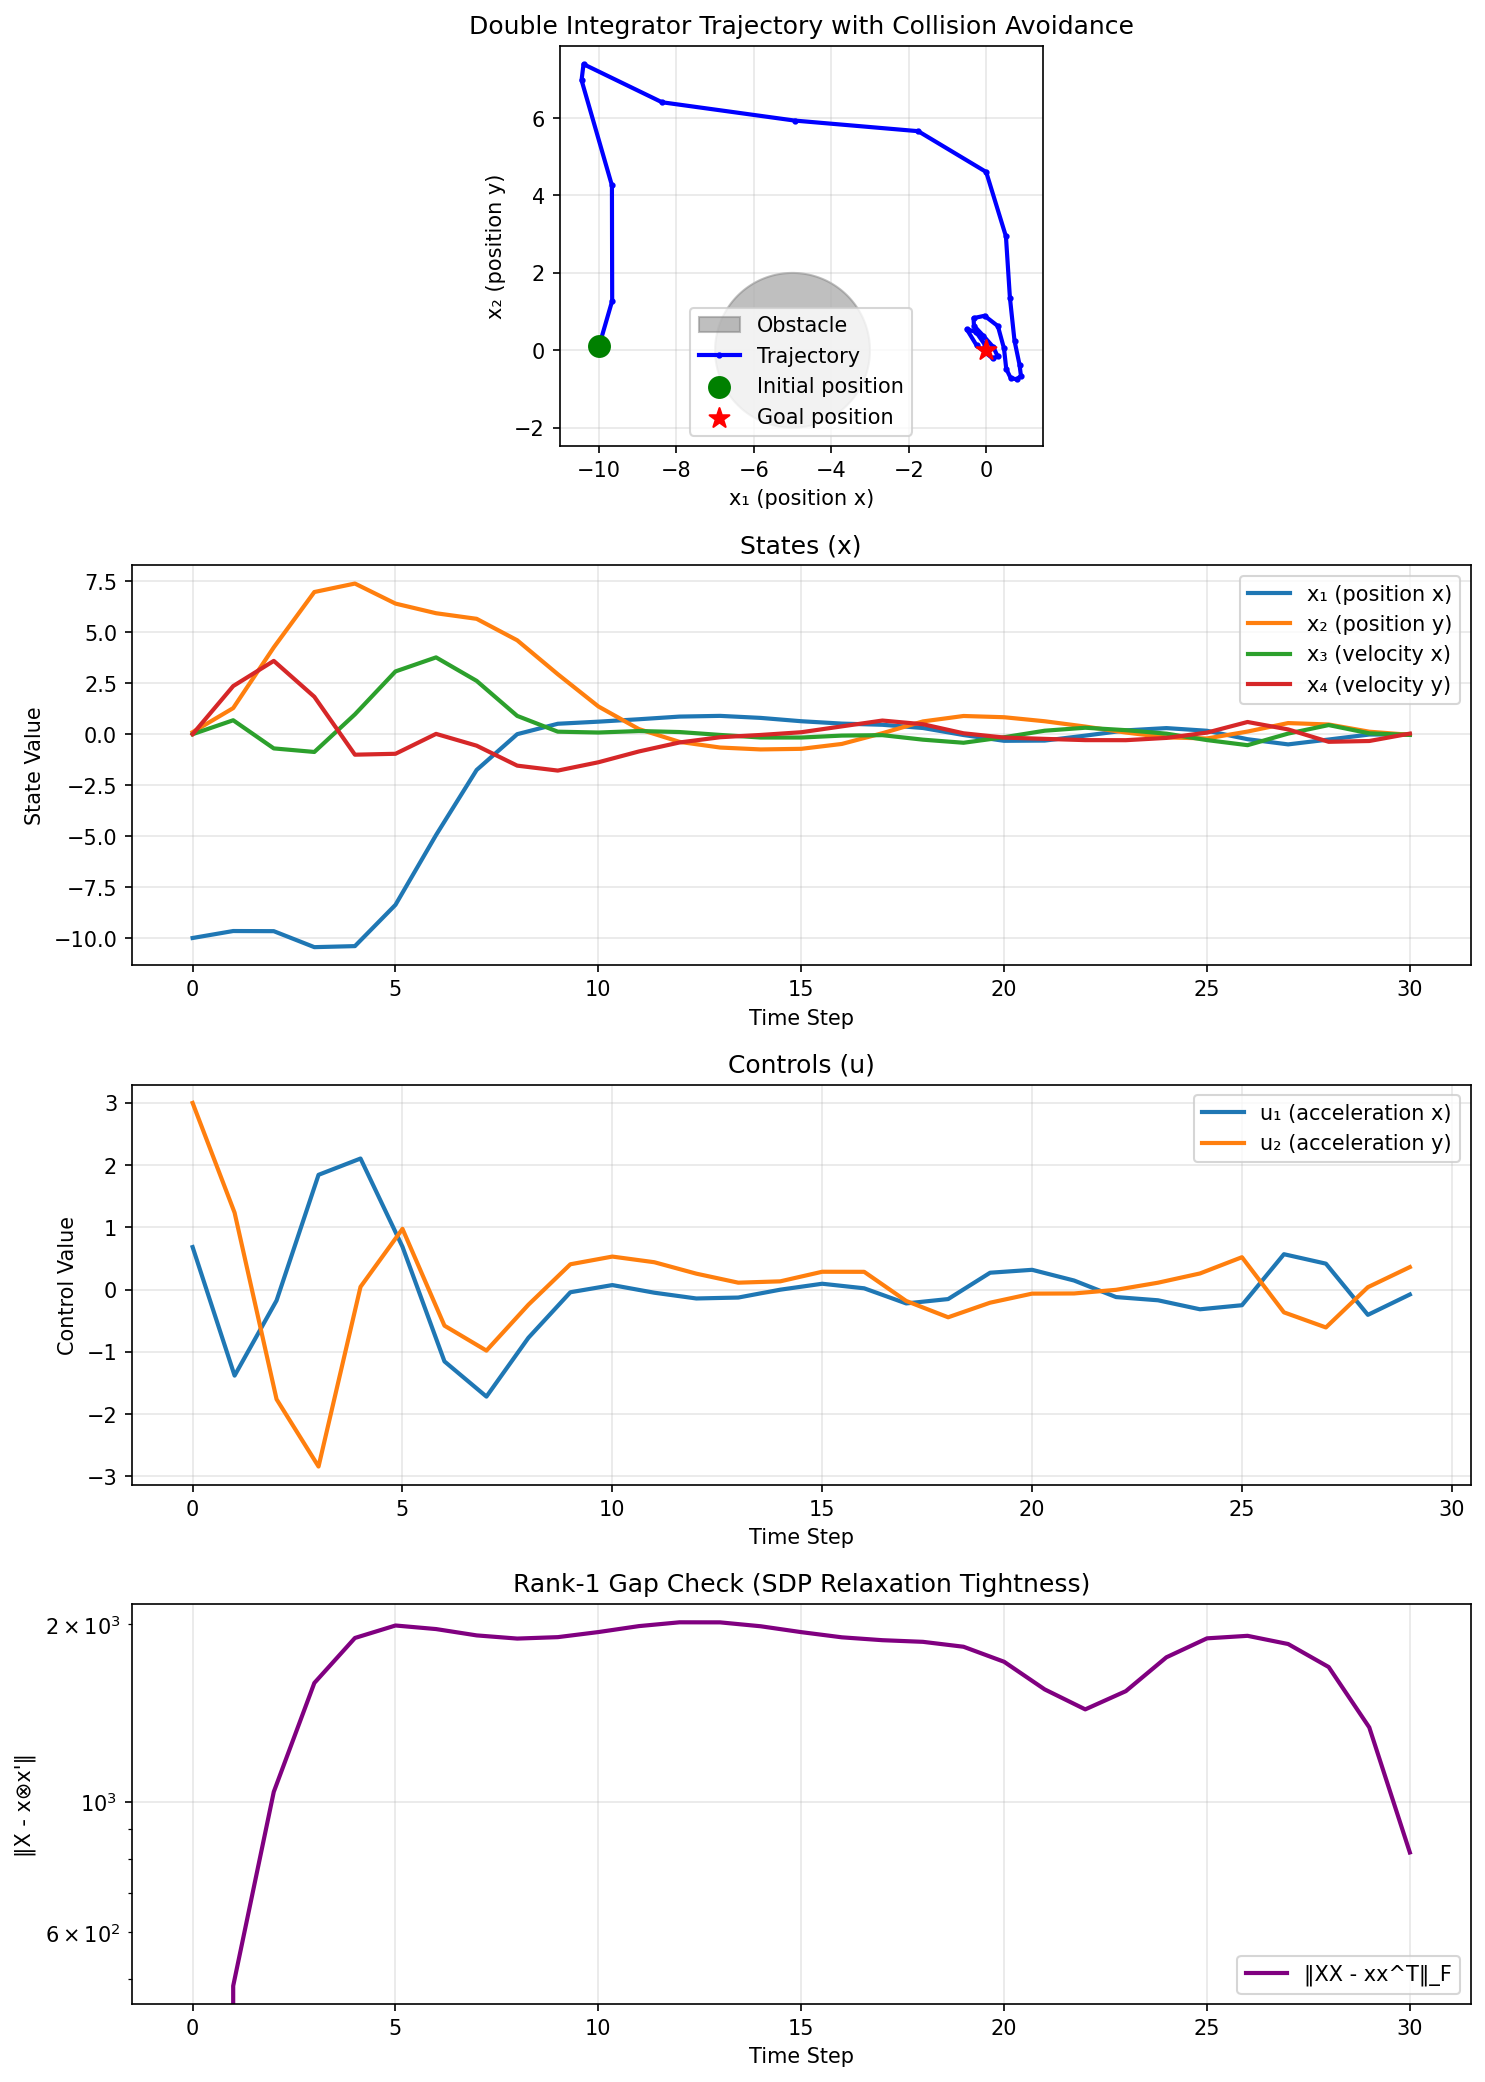
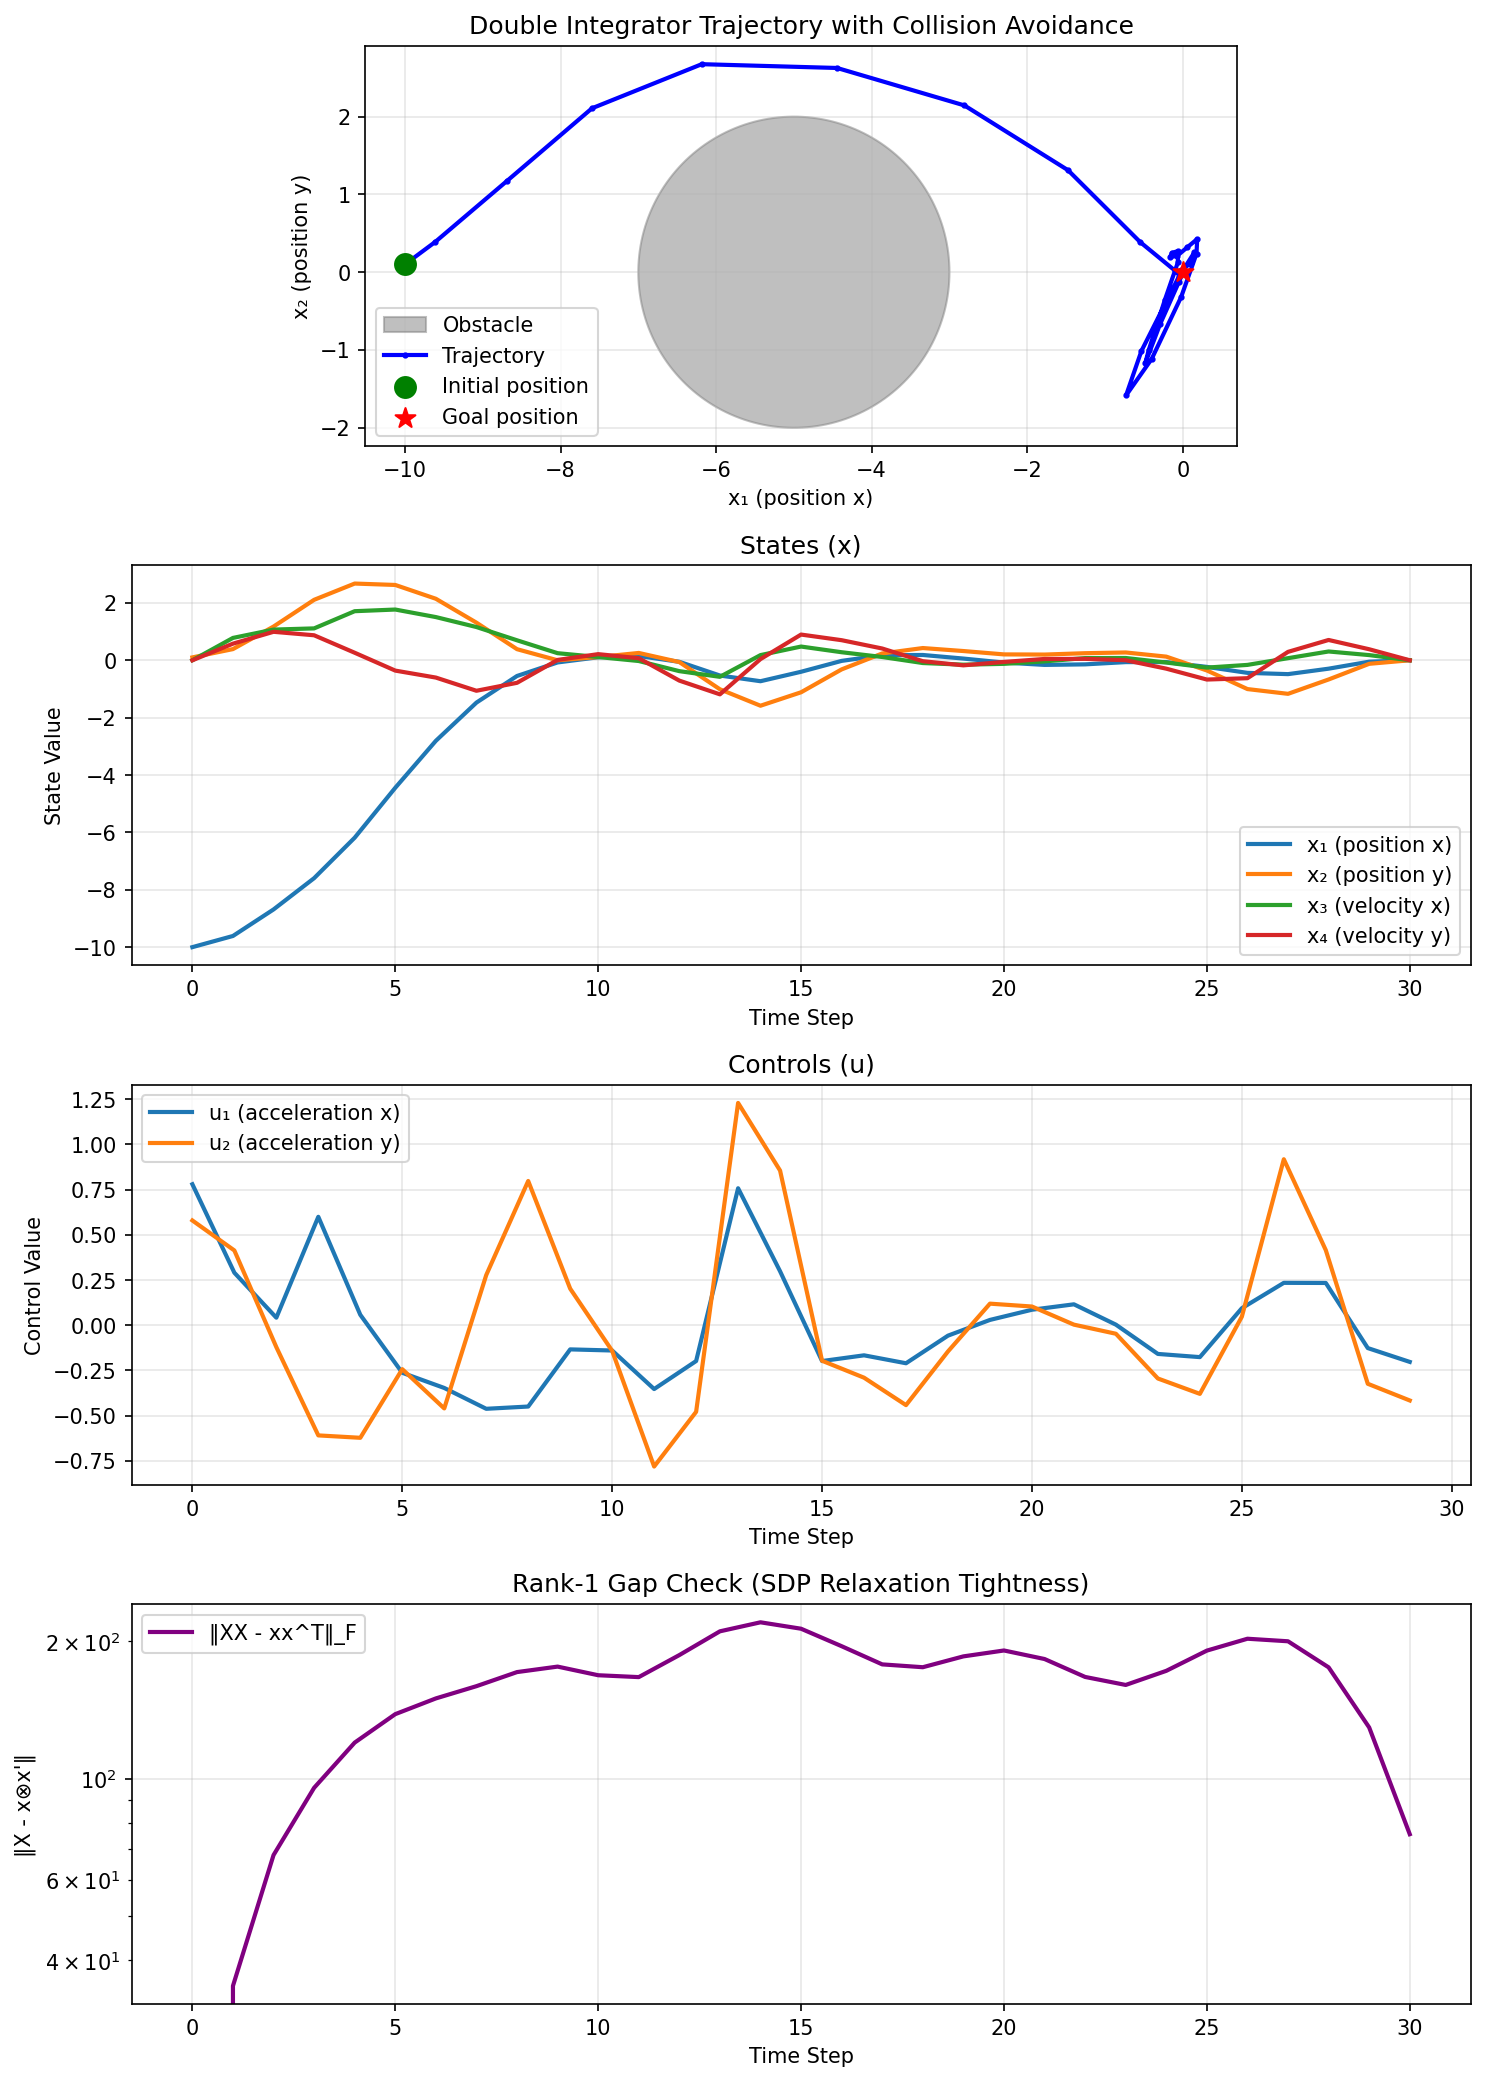
added linear lift cost

diff --git a/examples/tiny_psd_demo.cpp b/examples/tiny_psd_demo.cpp
@@ -33,7 +33,7 @@ extern "C" int main() {
     Mat R = Mat::Zero(nuL, nuL);
     const int nxu = NX0*NU0, nux = NU0*NX0, nuu = NU0*NU0;
     // Base input: moderate cost
-    R.diagonal().head(NU0).array() = tinytype(2.0);
+    R.diagonal().head(NU0).array() = tinytype(1.5);
     // Lifted input blocks: r_xx ~ 10 on XU/UX, R_xx ~ 500 on UU
     R.diagonal().segment(NU0, nxu).array() = tinytype(10.0);            // vec(XU)
     R.diagonal().segment(NU0 + nxu, nux).array() = tinytype(10.0);      // vec(UX)
@@ -43,7 +43,7 @@ extern "C" int main() {
     TinySolver *solver = nullptr;
     int status = tiny_setup(&solver,
                             A, B, fdyn, Q, R,
-                            /*rho*/ tinytype(12.0), nxL, nuL, N,
+                            /*rho*/ tinytype(8.0), nxL, nuL, N,
                             /*verbose=*/1); // prints A,B,Q,R, Kinf, Pinf
     if (status) return status;
 
@@ -52,9 +52,22 @@ extern "C" int main() {
     Mat x_max = Mat::Constant(nxL, N,  std::numeric_limits<tinytype>::infinity());
     x_min.topRows(NX0).setConstant(-30.0);
     x_max.topRows(NX0).setConstant( 30.0);
+    // Tighter position bounds to strengthen RLT caps
+    x_min.row(0).setConstant(-12.0); x_max.row(0).setConstant(11.999);    // x
+    x_min.row(1).setConstant( -6.0); x_max.row(1).setConstant( 6.0);    // y
     // Gentle caps on vec(XX)
     x_min.middleRows(NX0, NX0*NX0).setConstant(-1000.0);
     x_max.middleRows(NX0, NX0*NX0).setConstant( 1000.0);
+
+    // Clamp terminal base velocities to ~0 to avoid dithering at the goal
+    const int kT = N-1 ; // terminal stage column index
+    const tinytype v_eps = tinytype(1e-4);
+    const tinytype eps_xy = tinytype(1e-4);
+    // rows: 0=x, 1=y, 2=vx, 3=vy
+    x_min(2, kT) = -v_eps; x_max(2, kT) = v_eps; // vx_T ≈ 0
+    x_min(3, kT) = -v_eps; x_max(3, kT) = v_eps; // vy_T ≈ 0
+    x_min(0,kT) = -eps_xy;  x_max(0,kT) =  eps_xy;   // x_T ≈ 0
+    x_min(1,kT) = -eps_xy;  x_max(1,kT) =  eps_xy;   // y_T ≈ 0
 
     Mat u_min = Mat::Constant(nuL, N-1, -std::numeric_limits<tinytype>::infinity());
     Mat u_max = Mat::Constant(nuL, N-1,  std::numeric_limits<tinytype>::infinity());
@@ -65,11 +78,10 @@ extern "C" int main() {
     u_max.bottomRows(nxu + nux + nuu).setConstant( 1000.0);
     tiny_set_bound_constraints(solver, x_min, x_max, u_min, u_max);
 
-    // Enable PSD coupling with a small rho_psd initially (0.5–1.0)
+    // Enable PSD coupling with a small rho_psd initially (gentle start)
     const bool ENABLE_PSD = true;
     if (ENABLE_PSD) {
-        // Start modest; can ramp to 5 later if calm
-        tiny_enable_psd(solver, NX0, NU0, /*rho_psd*/ tinytype(3.0));
+        tiny_enable_psd(solver, NX0, NU0, /*rho_psd*/ tinytype(1.0));
     }
 
     // Lifted initial condition: [x0; vec(x0*x0')]
@@ -86,14 +98,43 @@ extern "C" int main() {
 
     tiny_set_x0(solver, x0_lift);
 
-    // No linear reference terms
-    tiny_set_x_ref(solver, Mat::Zero(nxL, N));
-    tiny_set_u_ref(solver, Mat::Zero(nuL, N-1));
+    // ---- Linear lift costs like Julia/MOSEK via Xref/Uref ----
+    {
+        const int nx0 = NX0, nu0 = NU0;
+        const int nxu_loc = nx0*nu0, nux_loc = nu0*nx0;
+        const int baseUU = nu0 + nxu_loc + nux_loc; // start index of vec(UU)
+        const tinytype q_xx = tinytype(0.8);  // linear on diag(XX)
+        const tinytype r_uu = tinytype(10.0); // linear on diag(UU)
+
+        Mat Xref = Mat::Zero(nxL, N);
+        Mat Uref = Mat::Zero(nuL, N-1);
+        // State: add q_xx on XX_ii via Xref
+        for (int k = 0; k < N; ++k) {
+            for (int i = 0; i < nx0; ++i) {
+                int idx_xx_ii = nx0 + i*nx0 + i;
+                tinytype denom = solver->work->Q(idx_xx_ii);
+                if (denom != tinytype(0)) Xref(idx_xx_ii, k) = -q_xx / denom;
+            }
+        }
+        // Input: add r_uu on UU_jj via Uref
+        for (int k = 0; k < N-1; ++k) {
+            for (int j = 0; j < nu0; ++j) {
+                int idx_uu_jj = baseUU + j*nu0 + j;
+                tinytype denom = solver->work->R(idx_uu_jj);
+                if (denom != tinytype(0)) Uref(idx_uu_jj, k) = -r_uu / denom;
+            }
+        }
+        tiny_set_x_ref(solver, Xref);
+        tiny_set_u_ref(solver, Uref);
+    }
 
     // Pure-PSD variant: lifted disks + light RLT (no TV tangents)
     const tinytype ox = -5.0, oy = 0.0, r = 2.0;
-    std::vector<std::array<tinytype,3>> disks = {{ {ox, oy, r} }}; // one circle
+    const tinytype r_margin = tinytype(0.0);
+    // Single disk with small margin
+    std::vector<std::array<tinytype,3>> disks = {{ {ox, oy, r + r_margin} }};
     tiny_set_lifted_disks(solver, disks);
+    // Full RLT (McCormick) rows on (x,y) block for tighter relaxation
     tiny_add_rlt_position_xx(solver);
 
     // Solve once—watch the PSD eigen prints

diff --git a/src/tinympc/psd_support.hpp b/src/tinympc/psd_support.hpp
@@ -314,6 +314,35 @@ inline int tiny_add_rlt_position_xx(TinySolver* solver)
     return tiny_append_state_linear_rows(solver, Aadd, Badd);
 }
 
+// Add only diagonal RLT caps for position block: w_ii <= (u_i + l_i) x_i - u_i l_i
+inline int tiny_add_rlt_position_xx_diag_only(TinySolver* solver)
+{
+    if (!solver) { std::cout << "tiny_add_rlt_position_xx_diag_only: solver nullptr\n"; return 1; }
+    const int nx0 = solver->settings->nx0_psd;
+    if (nx0 < 2) { std::cout << "tiny_add_rlt_position_xx_diag_only: nx0_psd<2\n"; return 1; }
+    const int nxL = solver->work->nx;
+
+    auto get_bounds = [&](int idx)->std::pair<tinytype,tinytype>{
+        tinytype l = solver->work->x_min(idx, 0);
+        tinytype u = solver->work->x_max(idx, 0);
+        return {l,u};
+    };
+    auto idx_xx = [&](int i, int j)->int { return nx0 + j*nx0 + i; };
+
+    const int m = 2; // only i=0,1
+    tinyMatrix Aadd = tinyMatrix::Zero(m, nxL);
+    tinyVector Badd = tinyVector::Zero(m);
+    for (int i = 0; i < 2; ++i) {
+        auto [li, ui] = get_bounds(i);
+        tinyVector a = tinyVector::Zero(nxL);
+        a(i) = -(ui + li);
+        a(idx_xx(i,i)) = 1.0;
+        Aadd.row(i) = a.transpose();
+        Badd(i) = -ui*li;
+    }
+    return tiny_append_state_linear_rows(solver, Aadd, Badd);
+}
+
 inline void tiny_set_circle_avoidance(TinySolver* solver, tinytype ox, tinytype oy, tinytype r) {
     const int nx0 = solver->settings->nx0_psd; // base state dim
     const int nxL = solver->work->nx;          // lifted state dim

diff --git a/src/tinympc/admm.cpp b/src/tinympc/admm.cpp
@@ -615,6 +615,8 @@ int solve(TinySolver *solver)
 
         solver->work->iter += 1;
 
+        // PSD rho schedule disabled: keep rho_psd fixed for this experiment
+
         // Handle adaptive rho if enabled
         if (solver->settings->adaptive_rho) {
             // Calculate residuals for adaptive rho
